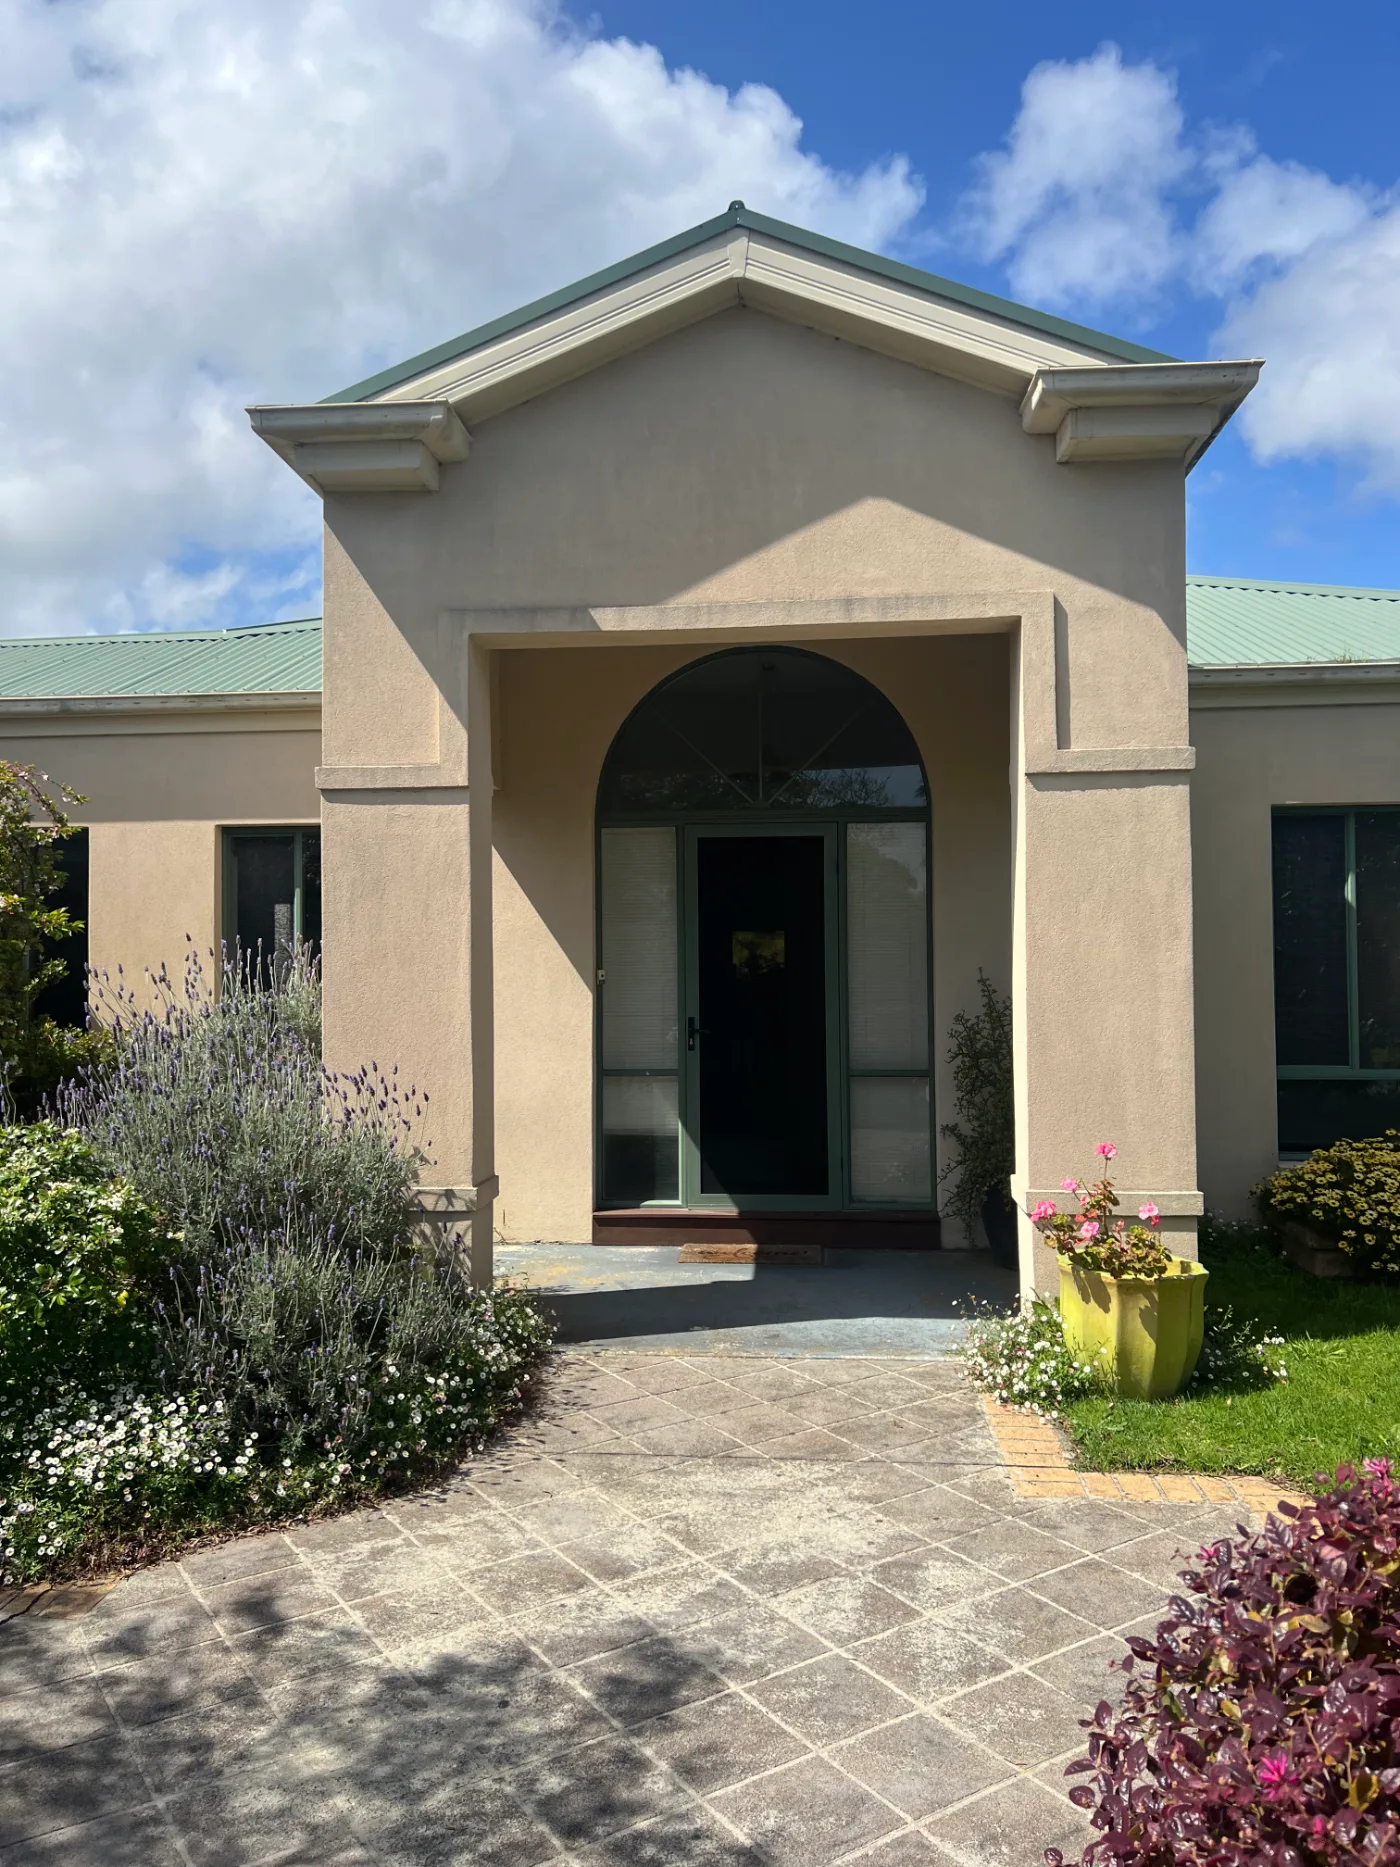
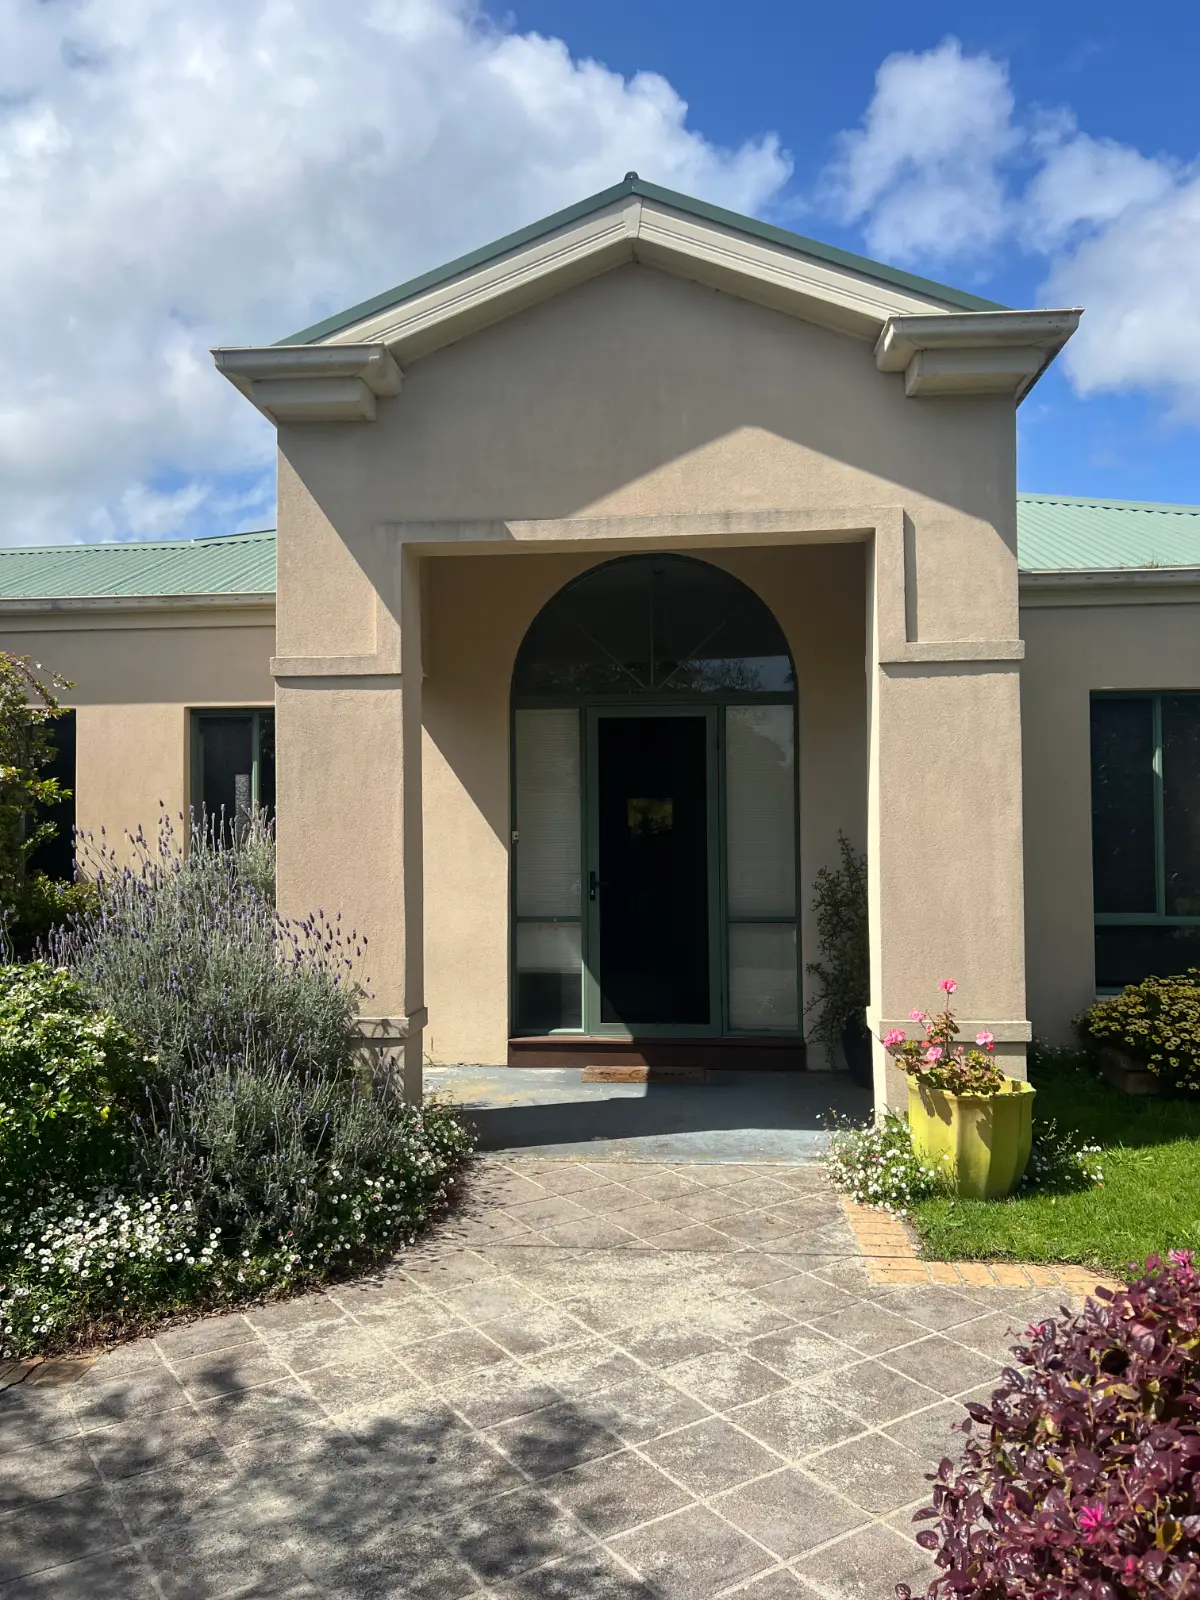
Daily audit: fix an image over the 250KB speed ceiling
Steps 0-6 run in full. One real defect, and it came from this same day's own
photo work.

project-safety-beach-render-roof-before.webp shipped at 395KB against the
standing baseline of zero images in public/ over 250KB. That frame is foliage,
textured render and cloud, which webp compresses badly, and the converter's
default 1400w at quality 0.82 was not enough for it.

Neither lever alone was sufficient. Quality 0.66 still landed at 266KB and was
starting to show artefacts; 1100w at quality 0.80 landed at 259KB. Both
together — 1200x1600 at quality 0.72 — gives 232KB, which sits alongside the
existing project photos rather than being an outlier.

scripts/convert-photo.mjs gains a QUALITY env var so a detail-heavy frame can
be tuned individually instead of dropping the whole library's quality.
Dimensions corrected in SafetyBeachPainters.tsx to match the new output.
Re-rendered and inspected: no visible artefacts.

Everything else clean: lockfile 77/77, three layers 0 diffs, 119 FAQ pages with
534 questions and 0 invisible, 0 JSON-LD parse errors, 0 aggregateRating in
static pages, metadata baselines unchanged, near-duplicate 12.8% avg and 32.3%
max against a 45/55 gate, bad URLs 404 while real bundles still serve, 301 not
307, markdown negotiation correct, llms.txt free of prices, TTFB 0.22s.

The sitemap is 112 rather than the brief's 115 baseline. That reconciles
exactly: 122 static pages minus 11 noindexed plus the homepage. The 11 are the
[…]

diff --git a/public/painter-safety-beach/index.html b/public/painter-safety-beach/index.html
@@ -198,7 +198,7 @@
     <h2>Recent work in Safety Beach</h2>
     <p>A Safety Beach render and roof repaint. The house had gone the way most Peninsula exteriors do — cream render dulled by salt air and hard UV, and a green Colorbond roof well past its best. Repainted in a mid grey with the roof brought to a dark charcoal, which is what changes the whole reading of the house from the street.</p>
     <figure>
-      <img src="/projects/project-safety-beach-render-roof-before.webp" srcset="/projects/project-safety-beach-render-roof-before-800.webp 800w, /projects/project-safety-beach-render-roof-before.webp 1400w" sizes="(max-width: 768px) 100vw, 50vw" width="1400" height="1867" alt="Cream rendered entry and green Colorbond roof of a Safety Beach home before repainting" loading="lazy" decoding="async">
+      <img src="/projects/project-safety-beach-render-roof-before.webp" srcset="/projects/project-safety-beach-render-roof-before-800.webp 800w, /projects/project-safety-beach-render-roof-before.webp 1200w" sizes="(max-width: 768px) 100vw, 50vw" width="1200" height="1600" alt="Cream rendered entry and green Colorbond roof of a Safety Beach home before repainting" loading="lazy" decoding="async">
       <figcaption>Before. Cream render and a green roof — sound underneath, but the colour dates the house and the north and west elevations had taken the most sun.</figcaption>
     </figure>
     <figure>

diff --git a/client/src/pages/SafetyBeachPainters.tsx b/client/src/pages/SafetyBeachPainters.tsx
@@ -31,8 +31,12 @@ export default function SafetyBeachPainters() {
         {
           src: "/projects/project-safety-beach-render-roof-before.webp",
           small: "/projects/project-safety-beach-render-roof-before-800.webp",
-          width: 1400,
-          height: 1867,
+          // 1200x1600 at quality 0.72 rather than the 1400x1867 default: this
+          // frame is foliage, textured render and cloud, which webp compresses
+          // badly, and at the default it was 395KB — over the 250KB ceiling the
+          // speed baseline sets for anything in public/.
+          width: 1200,
+          height: 1600,
           alt: `Cream rendered entry and green Colorbond roof of a ${suburb} home before repainting`,
           caption:
             "Before. Cream render and a green roof — sound underneath, but the colour dates the house and the north and west elevations had taken the most sun.",

diff --git a/SEO-LOG.md b/SEO-LOG.md
@@ -3885,3 +3885,69 @@ saves).
 
 Suburb pages carrying photos: Mordialloc, Safety Beach, Armadale, Brighton,
 plus Aspendale and Caulfield which already had them.
+
+---
+
+## 2026-09-04 20:06 UTC — daily audit run
+
+Steps 0-6 run in full. **One real defect found, and it was from this same day's
+own work.**
+
+### DEFECT: an image shipped over the 250KB ceiling
+
+`public/projects/project-safety-beach-render-roof-before.webp` was **395KB**,
+against the standing baseline of *zero images in public/ over 250KB*. Foliage,
+textured render and cloud compress badly in webp, and the converter's default
+1400w/q0.82 was not enough for that frame.
+
+Lowering quality alone did not get there — q0.66 still landed at 266KB and would
+have started showing artefacts. Reducing dimensions alone did not either (1100w
+at q0.80 = 259KB). The fix was both: **1200x1600 at q0.72 = 232KB**, which sits
+alongside the existing project photos (aspendale 233KB, caulfield 231KB) rather
+than being an outlier. `scripts/convert-photo.mjs` gained a `QUALITY` env var so
+this is tunable per photo instead of dropping the whole library's quality.
+Dimensions corrected in `SafetyBeachPainters.tsx` to match. Re-rendered and
+looked at: no visible artefacts.
+
+### Everything else clean
+
+| Check | Result |
+| --- | --- |
+| Build / production serving newest commit | ✅ armadale photo live |
+| Lockfile | **77/77** |
+| Three layers regenerated | **0 diffs** |
+| FAQ schema vs visible text | **119 pages, 534 questions, 0 invisible** |
+| JSON-LD parse errors | 0 |
+| aggregateRating in static pages | **0** (correct — lives only in client/index.html) |
+| Metadata | 0 dup titles/descs/canonicals/H1s · 0 missing · 0 keywords · 0 descs >158 · 1 title >60 (hastings 64, accepted) |
+| Near-duplicate | **12.8% avg, 32.3% max** (gate 45/55) — worst pair cranbourne/narre-warren, as before |
+| Bad URLs 404 | extensionless, `.zip`, and under `/assets/` all 404 |
+| Real hashed bundles | still 200, `text/javascript` / `text/css` |
+| Redirects | 301, not 307 |
+| Markdown negotiation | `text/markdown` on Accept, `text/html` otherwise |
+| llms.txt prices | none |
+| robots.txt | `ai-train=yes` intact |
+| TTFB / cache | 0.22s, cf-cache HIT |
+| og:image | 200, 163KB |
+
+### Sitemap reconciled — 112, not 115
+
+The brief's 115 baseline predates the Casey-corridor noindexing. Current maths:
+**122 static pages − 11 noindexed + homepage = 112**, and the sitemap is exactly
+112. The 11 are the 8 Casey suburbs plus privacy/review-us/terms. **Zero
+noindexed pages appear in the sitemap** — no contradictory signals. Not a defect.
+
+### A false failure worth recording
+
+The first lockfile check reported **38/77**. That was wrong: pnpm quotes scoped
+package names in the importers block (`'@radix-ui/react-accordion':`) and the
+naive pattern missed every one. Cloudflare had built the repo successfully four
+times that day with a frozen lockfile, which is what prompted the re-check. The
+corrected check reports 77/77. *A failing check on a repo that is demonstrably
+building is a bug in the check until proven otherwise.*
+
+### Step 7 — no authority work this run
+
+Steps 0-6 turned up a real defect, so per the brief the run fixed that and
+stopped. Ranking data was not pulled. Tier 0 remains closed; growing past 17
+reviews remains the top authority priority.
